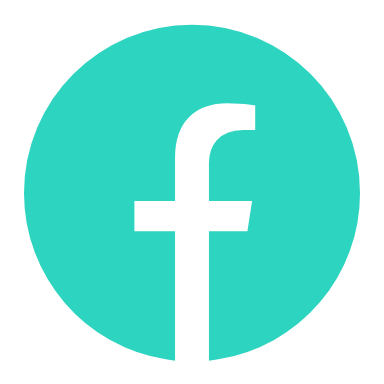
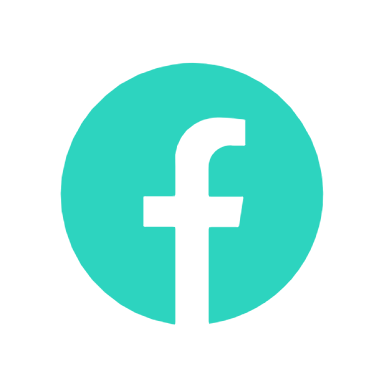
updated portfolio

diff --git a/src/components/navbar.jsx b/src/components/navbar.jsx
@@ -88,36 +88,36 @@ const listItemsVariants = {
       {/* SOCIALS */} 
       <div className='hidden md:flex gap-6 w-1/3'>
         <Link href="https://github.com/Amrkhwazir" target='_blank'>
-      <Image src="/github.png" alt="" width={24} height={24} />
+      <Image src="" alt="" width={28} height={28} />
         </Link>
         <Link href="#">
-      <Image src="/facebook.png" alt="" width={24} height={24} />
+      <Image src="/Whatsapp.png" alt="" width={26} height={26} />
         </Link>
         <Link href="#">
-      <Image src="/pinterest.png" alt="" width={24} height={24} />
+      <Image src="/Facebook.png" alt="" width={28} height={28} />
         </Link>
         <Link href="#">
-      <Image src="/instagram.png" alt="" width={24} height={24} />
+      <Image src="/Instagram.png" alt="" width={28} height={28} />
         </Link>
         <Link href="https://www.linkedin.com/in/aamir-khan-215836233/">
-      <Image src="/linkedin.png" alt="" width={24} height={24} />
+      <Image src="/Linkedin.png" alt="" width={24} height={24} />
         </Link>
       </div>
       {/* MENU */}
       <div className='md:hidden '>
         
         <button  className='w-10 bg h-8 flex flex-col justify-between z-50 relative' onClick={() => setOpen((prev) => !prev)}>
-          <motion.div animate={open ? "opened" : "closed"} variants={topVariants} className=' w-10 h-1 bg-teal-400 rounded origin-left'></motion.div>
-          <motion.div animate={open ? "opened" : "closed"} variants={centerVariants} className=' w-10 h-1 bg-teal-400 rounded'></motion.div>
-          <motion.div animate={open ? "opened" : "closed"} variants={bottomVariants} className=' w-10 h-1 bg-teal-400 rounded origin-left'></motion.div>
+          <motion.div animate={open ? "opened" : "closed"} variants={topVariants} className=' w-10 h-1 bg-white rounded origin-left'></motion.div>
+          <motion.div animate={open ? "opened" : "closed"} variants={centerVariants} className=' w-10 h-1 bg-white rounded'></motion.div>
+          <motion.div animate={open ? "opened" : "closed"} variants={bottomVariants} className=' w-10 h-1 bg-white rounded origin-left'></motion.div>
         </button>
         {/* MENU LIST */}
         { open &&
 
-          <motion.div variants={listVariants} initial="closed" animate="opened" className='absolute top-0 right-0 w-screen h-screen bg-gray-950 text-white flex flex-col items-center justify-center gap-8 text-3xl z-40'>
-              <span className='font-semibold bg-gradient-to-r from-teal-300 to-teal-100 bg-clip-text text-transparent absolute top-6 left-11 text-2xl md:hidden '>AKMDev.</span>
+          <motion.div variants={listVariants} initial="closed" animate="opened" className='absolute top-0 right-0 w-screen h-screen bg-[#05161A] text-white flex flex-col items-center justify-center gap-8 text-3xl z-40'>
+              <span className='font-semibold bg-gradient-to-r from-teal-300 to-teal-100 bg-clip-text text-transparent absolute top-6 left-4 text-2xl md:hidden '>AKMDev.</span>
       {links.map((link)=> (
-        <motion.div variants={listItemsVariants} className='' key={link.title}>
+        <motion.div variants={listItemsVariants} className='bg-gradient-to-r from-teal-300 to-teal-100 bg-clip-text text-transparent' key={link.title}>
         <Link href={link.url}>
           {link.title}
           </Link>

diff --git a/src/components/transitions.jsx b/src/components/transitions.jsx
@@ -11,24 +11,24 @@ const Transitions = ({children}) => {
     <AnimatePresence mode="wait">
         <div key={pathName} className="w-screen h-screen bg-[#05161A]">
            
-            <motion.div className="h-screen w-screen fixed bg-gradient-to-r from-teal-400 to-emerald-300 rounded-b-[100px] z-40" 
+            <motion.div className="h-screen w-screen fixed bg-gradient-to-r from-teal-200 to-teal-400 rounded-b-[100px] z-40" 
             animate={{height: "0vh"}}
             exit={{height:"140vh"}}
-            transition={{duration: 0.6, ease: "easeOut" }}
+            transition={{duration: 0.9, ease: "easeIn" }}
             />
 
             <motion.div className="fixed m-auto top-0 bottom-0 left-0 right-0 text-white text-8xl cursor-default w-fit h-fit z-50" 
             initial={{opacity: 1}}
             animate={{opacity: 0}}
             exit={{opacity: 0}}
-            transition={{duration: 0.8, ease: "easeOut" }}
+            transition={{duration: 0.6, ease: "easeIn" }}
             >
                 {pathName.substring(1)}
             </motion.div>
 
-            <motion.div className="h-screen w-screen fixed bg-gradient-to-r from-teal-400 to-emerald-300 rounded-t-[100px] bottom-0 z-30 " 
+            <motion.div className="h-screen w-screen fixed bg-gradient-to-r from-teal-200 to-teal-400 rounded-t-[100px] bottom-0 z-30 " 
             initial={{height: "140vh"}}
-            animate={{height:"0vh", transition: { delay: 0.6 } }}
+            animate={{height:"0vh", transition: { delay: 0.9 } }}
             />
 
           <div className="h-20">

diff --git a/src/app/page.jsx b/src/app/page.jsx
@@ -5,16 +5,16 @@ import {motion} from "framer-motion"
 const Homepage = () => {
   
   return (
-    <motion.div className="h-full" initial={{y: "-200vh"}} animate={{y: "0%"}} transition={{duration: 1}}>
-    <div className="h-full flex flex-col lg:flex-row px-4 sm:px-8 md:px-12 lg:px-20 xl:px-48">
+    <motion.div className="h-full" initial={{y: "-200vh"}} animate={{y: "0%"}} transition={{duration: 1.2}}>
+    <div className="h-full pb-20 md:pb-0 lg:pb-0 flex flex-col lg:flex-row px-4 sm:px-8 md:px-12 lg:px-20 xl:px-48">
     {/* IMAGE CONTAINER */}
-    <div className="h-1/2  lg:h-[500px] lg:w-1/2 relative">
+    <div className="h-1/2  lg:h-full lg:w-1/2 relative">
       <Image src="/hero.jpg" alt="" fill className="object-contain"/>
     </div>
     {/* TEXT CONTAINER */}
     <div className=" h-1/2 pt-20 lg:h-full lg:w-1/2 flex flex-col gap-8 item-center justify-center">
     {/* TITLE CONTAINER */}
-    <h1 className="text-3xl bg-gradient-to-r from-teal-400 to-teal-100 bg-clip-text text-transparent md:text-4xl font-bold">Crafting Digital Experiences, Designing Tomorrow.</h1>
+    <h1 className="py-2 text-3xl bg-gradient-to-r from-teal-400 to-teal-100 bg-clip-text text-transparent md:text-4xl font-bold">Crafting Digital Experiences, Designing Tomorrow.</h1>
     {/* DESC */}
     <p className="md:text-lg text-gray-400">Lorem ipsum dolor sit amet consectetur adipisicing elit. Fuga, amet nostrum veniam ex cupiditate dolore blanditiis minima veritatis velit perferendis.</p>
     {/* BUTTONS   */}

diff --git a/src/app/about/page.jsx b/src/app/about/page.jsx
@@ -9,7 +9,7 @@ const AboutPage = () => {
 
 
   return (
-    <motion.div className="h-full text-white" initial={{y: "-200vh"}} animate={{y: "0%"}} transition={{duration: 1}}>
+    <motion.div className="h-full text-white" initial={{y: "-200vh"}} animate={{y: "0%"}} transition={{duration: 1.2}}>
       {/* CONTAINER */}
       <div className=''>
         {/* TEXT CONTAINER */}
